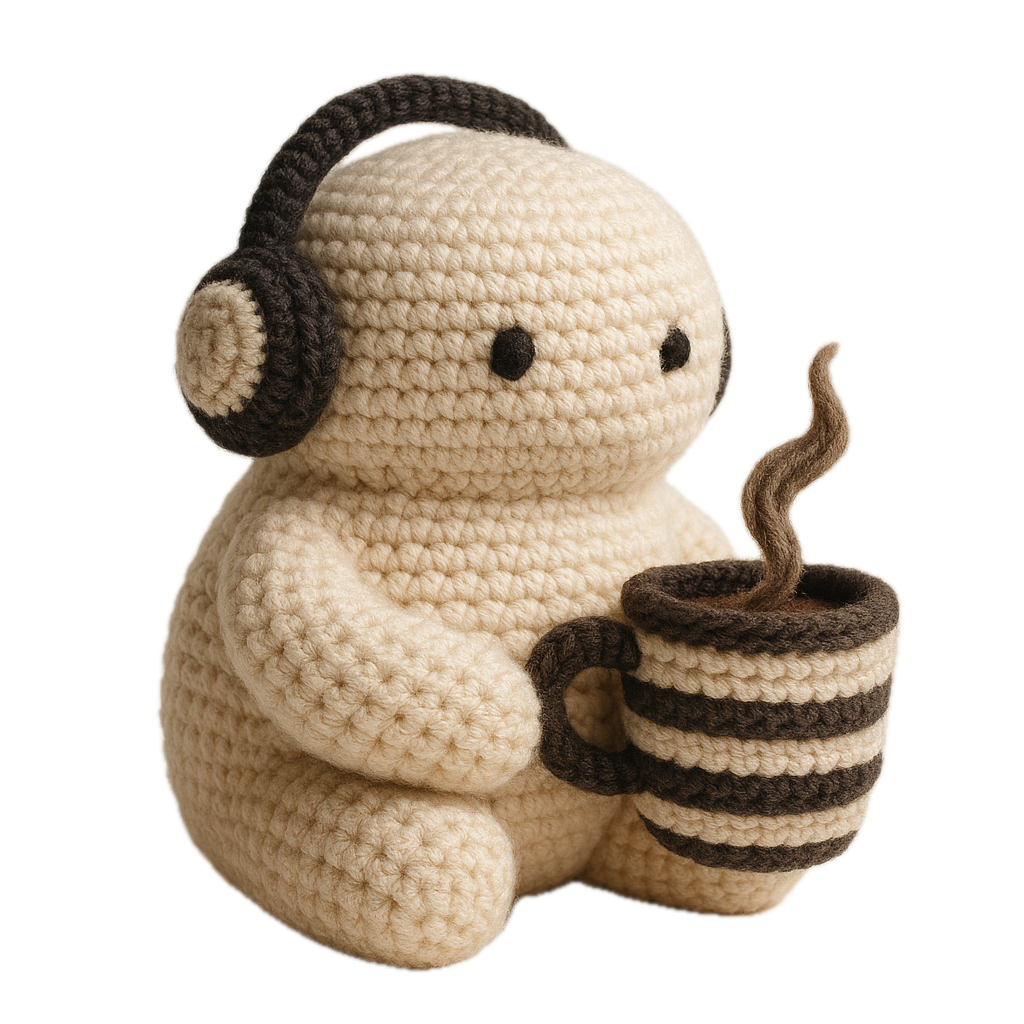
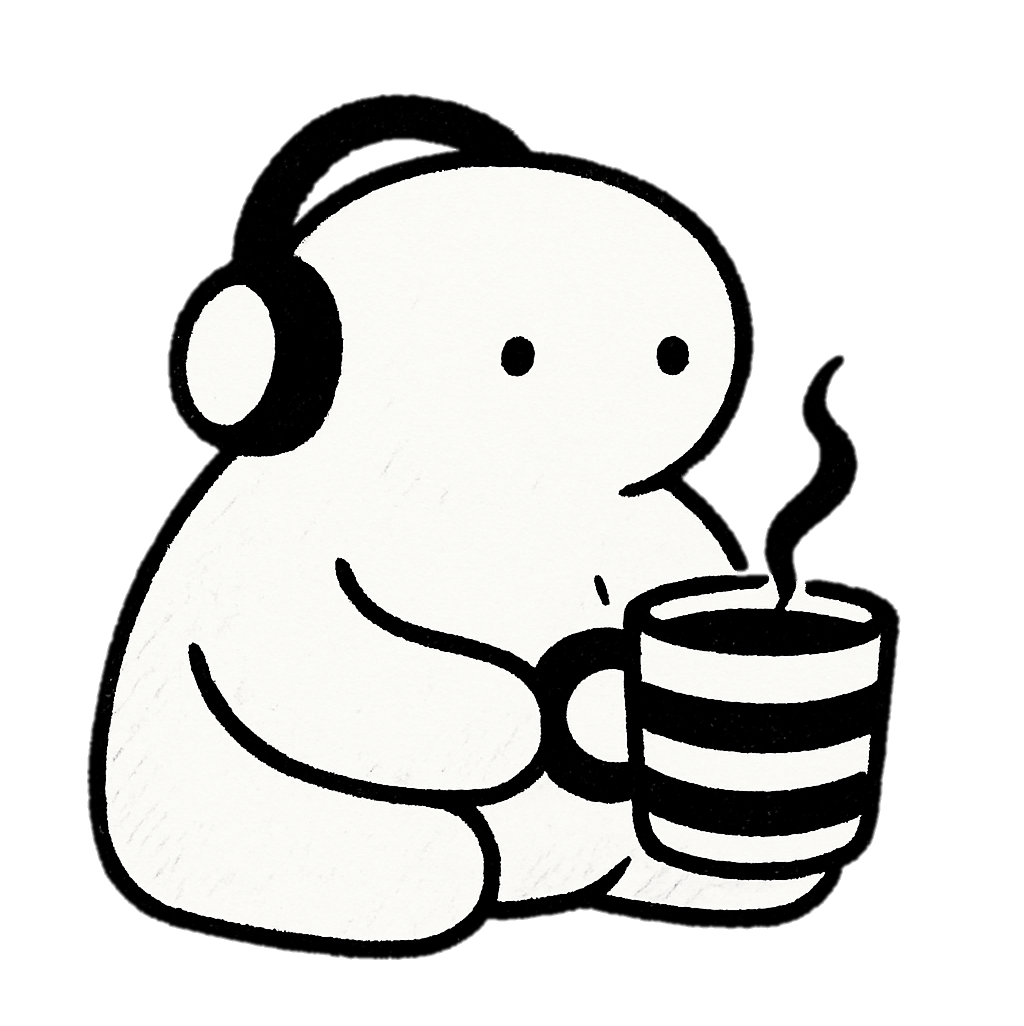
feat: add Java learning button to Dashboard component with associated image and route

diff --git a/src/pages/Dashboard.tsx b/src/pages/Dashboard.tsx
@@ -188,6 +188,69 @@ export default function Dashboard() {
           );
         })}
       </div>
+      <button
+        style={{
+          width: 358,
+          height: 170,
+          margin: '20px auto 0',
+          display: 'flex',
+          alignItems: 'stretch',
+          justifyContent: 'flex-start',
+          backgroundColor: '#D3191C',
+          border: 'none',
+          borderRadius: 32,
+          padding: 0,
+          cursor: 'pointer'
+        }}
+        onClick={() => {
+          window.location.href = '/learn/java';
+        }}
+      >
+        <img
+          src={'/dashbord/persona_coffee.png'}
+          alt=""
+          style={{ width: 170, height: 170, display: 'block', borderTopLeftRadius: 28, borderBottomLeftRadius: 28 }}
+        />
+        <div
+          style={{
+            flex: 1,
+            display: 'flex',
+            flexDirection: 'column',
+            alignItems: 'flex-start',
+            justifyContent: 'flex-start'
+          }}
+        >
+          <div
+            style={{
+              width: '100%',
+              color: '#FFFFFF',
+              fontSize: 32,
+              fontFamily: '"Arial Rounded MT Bold", "Apple Symbols", Arial, sans-serif',
+              textAlign: 'left',
+              marginTop: 17,
+              lineHeight: 1.1,
+              paddingLeft: 12,
+              paddingRight: 12
+            }}
+          >
+            Learn Java
+          </div>
+          <div
+            style={{
+              width: '100%',
+              color: '#000000',
+              fontSize: 20,
+              fontFamily: '"Arial Rounded MT Bold", "Apple Symbols", Arial, sans-serif',
+              textAlign: 'left',
+              lineHeight: 1.2,
+              paddingLeft: 12,
+              paddingRight: 12
+            }}
+          >
+            {`Straight to the point.\nStraight to Java.`}
+          </div>
+        </div>
+      </button>
     </div>
   );
 }

diff --git a/src/App.tsx b/src/App.tsx
@@ -4,6 +4,7 @@ import Login from './pages/Login';
 import { Welcome } from './pages/Welcome';
 import Dashboard from './pages/Dashboard';
 import ProtectedRoute from './routes/ProtectedRoute';
+import JavaLearn from './pages/JavaLearn';
 import { AuthProvider } from './context/AuthContext';
 import { expandWebApp, tgRequestFullscreen, onTgFullscreenChanged, getTelegramWebApp } from './utils/telegram';
 
@@ -82,6 +83,7 @@ function App() {
         <Routes>
           <Route path="/" element={<Welcome />} />
           <Route path="/login" element={<Login />} />
+          <Route path="/learn/java" element={<JavaLearn />} />
           <Route
             path="/dashboard"
             element={

diff --git a/src/pages/JavaLearn.tsx b/src/pages/JavaLearn.tsx
@@ -1,0 +1,17 @@
+export default function JavaLearn() {
+  return (
+    <div style={{
+      minHeight: '100vh',
+      paddingTop: 90,
+      display: 'flex',
+      alignItems: 'center',
+      justifyContent: 'center',
+      fontFamily: '"Arial Rounded MT Bold", "Apple Symbols", Arial, sans-serif',
+      color: '#000'
+    }}>
+      Coming soon…
+    </div>
+  );
+}
+
+
